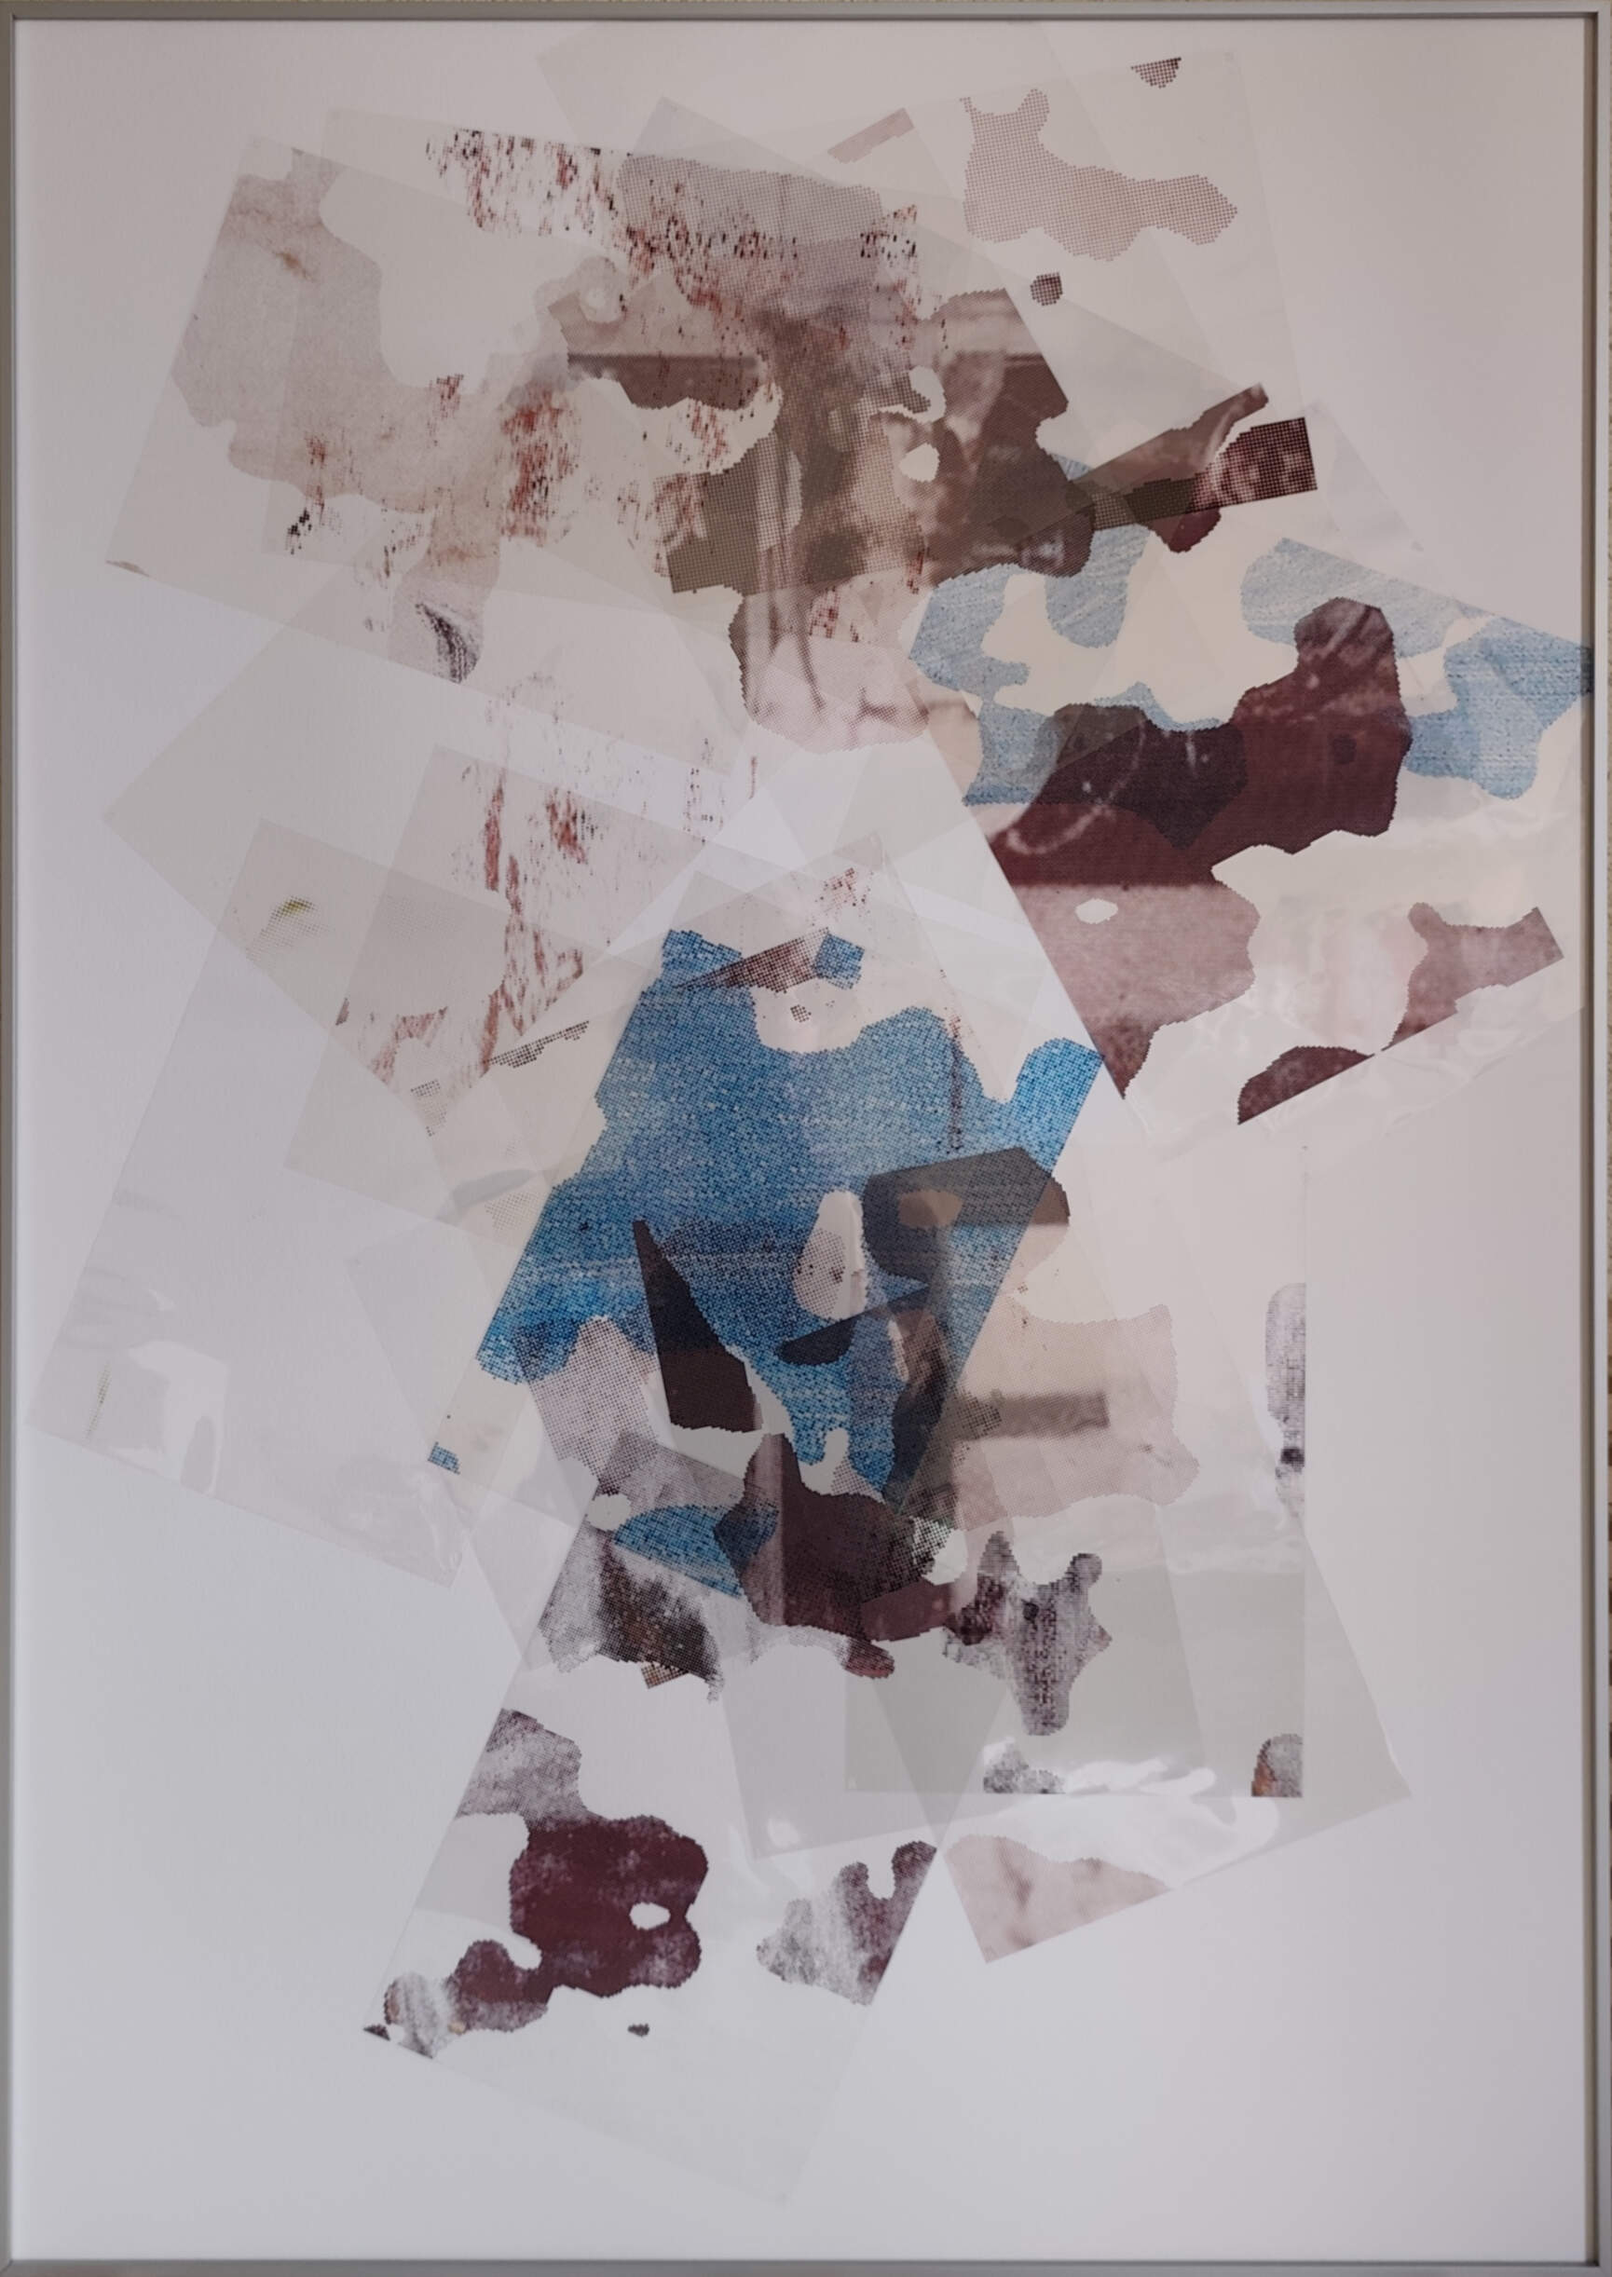
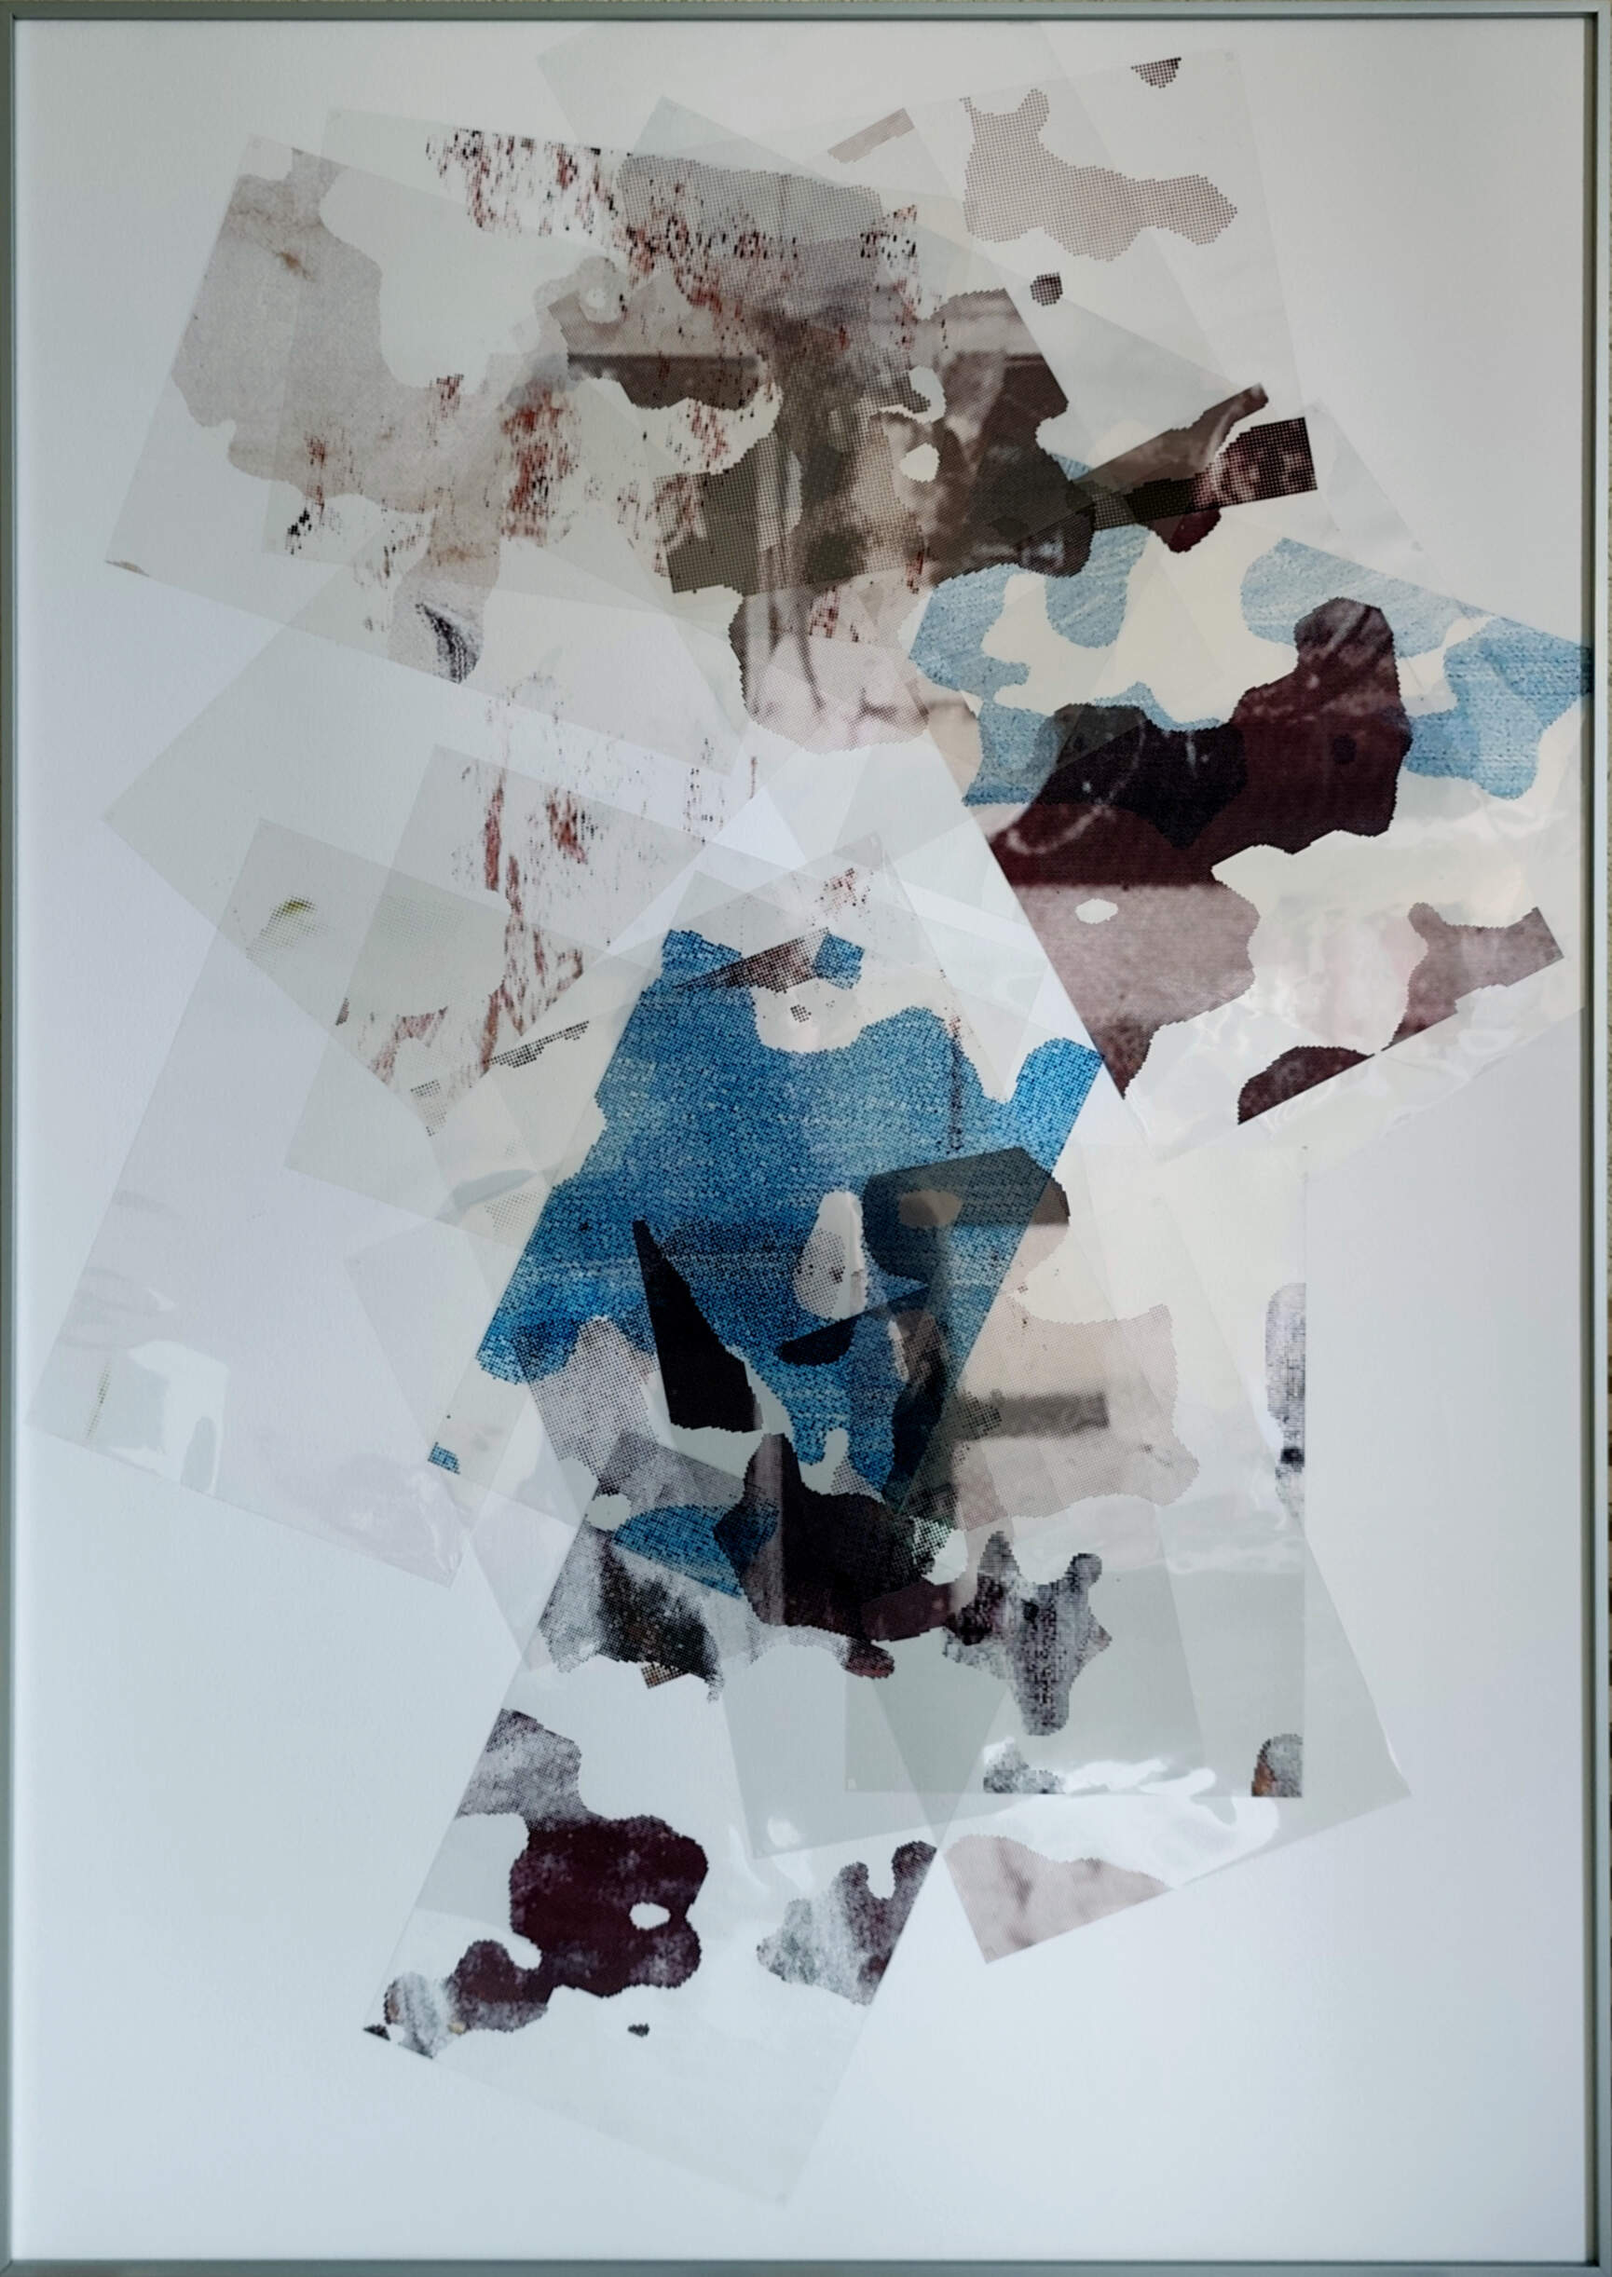
dunas

diff --git a/_works/dunes-micrographies.md b/_works/dunes-micrographies.md
@@ -6,26 +6,26 @@ date: 01/03/2026
 type: work
 media: Generative compositions. Acetates with digital printing mounted on Etruscan paper
 main_image: /images/AGF-Dunas-Micrografias-La_hora_azul-web.jpg 
-images: /images/AGF-Dunas-Micrografias-La_colonia-TRIPTICO-web.jpg, /images/AGF-Dunas-Micrografias-La_colonia-I-web.jpg, /images/AGF-Dunas-Micrografias-La_habitacion_azul-I-web.jpg, /images/AGF-Dunas-Micrografias-Terreno_Yermol-I-web.jpg, /images/AGF-Dunas-Micrografias-La_habitacion_azul_TRIPTICO--web.jpg, /images/AGF-Dunas-Micrografias-La_colonia-II-web.jpg, /images/AGF-Dunas-Micrografias-La_habitacion_azul-II-web.jpg, /images/AGF-Dunas-Micrografias-Terreno_Yermol-II-web.jpg, /images/AGF-Dunas-Micrografias-Terreno_Yermol-TRIPTICO-web.jpg, /images/AGF-Dunas-Micrografias-La_colonia-III-web.jpg, /images/AGF-Dunas-Micrografias-La_habitacion_azul-III-web.jpg, /images/AGF-Dunas-Micrografias-Terreno_Yermol-III-web.jpg
+images: /images/AGF-Dunas-Micrografias-La_colonia-TRIPTICO-blanco-web.jpg, /images/AGF-Dunas-Micrografias-La_colonia-I-web.jpg, /images/AGF-Dunas-Micrografias-La_habitacion_azul-I-web.jpg, /images/AGF-Dunas-Micrografias-Terreno_Yermol-I-web.jpg, /images/AGF-Dunas-Micrografias-La_habitacion_azul_TRIPTICO-blanco-web.jpg, /images/AGF-Dunas-Micrografias-La_colonia-II-web.jpg, /images/AGF-Dunas-Micrografias-La_habitacion_azul-II-web.jpg, /images/AGF-Dunas-Micrografias-Terreno_Yermol-II-web.jpg, /images/AGF-Dunas-Micrografias-Terreno_Yermol-TRIPTICO-blanco-web.jpg, /images/AGF-Dunas-Micrografias-La_colonia-III-web.jpg, /images/AGF-Dunas-Micrografias-La_habitacion_azul-III-web.jpg, /images/AGF-Dunas-Micrografias-Terreno_Yermol-III-web.jpg
 layout: default
 ---
 
 
 
 <div class="es">
-<p><em>Dunas / Micrografías</em> parte de la duna migrante de Råbjerg Mile, en el norte de Skagen, como figura para pensar las transformaciones de la imagen y la visualidad desde el siglo XIX hasta el presente. Formada tras la Pequeña Edad de Hielo y responsable de sepultar antiguos pueblos, la duna funciona hoy como un signo premonitorio leído desde el contexto del cambio climático. 
+<p><em>Dunas / Micrografías</em> es un trabajo que parte de la gran duna migrante, la Råbjerg Mile, en el norte de Dinamarca, como figura para pensar las transformaciones de la imagen y la visualidad debidas al cambio climático. Formada en el s. XVII a consecuencia de la deforestación y la Pequeña Edad de Hielo, este accidente geográfico que llegó a sepultar varios pueblos es el punto de partida de una serie de composiciones generativas materializadas como superposiciones de acetatos sobre papel.
 </p>
 <p>
-<em>Dunas / Micrografías</em> conecta este paisaje con la colonia de pintores de Skagen, que exploró la atmósfera y la luz como problema estético, y contrapone esa mirada histórica a nuestra experiencia contemporánea de las imágenes, atravesada por dispositivos digitales, algoritmos y sistemas de inteligencia artificial. 
+El proyecto conecta la duna con una colonia de pintores establecida a finales del s. XIX muy cerca de su ubicación. La colonia de Skagen estudió la luminosidad del lugar como parte de una práctica influida por el impresionismo y la pintura en plein air, pero apenas prestó atención a la duna en sí. Habitaban una atmósfera distinta a la nuestra: en su caso, un campo de exploración estética; en el nuestro, una entidad atravesada por la anticipación de un futuro incierto. Las composiciones recogen esta distancia desde el otro cambio radical de experiencia de la imagen contemporánea: la de los dispositivos digitales, algoritmos y sistemas de inteligencia artificial. 
 </p>
 <p>
-A partir de un sistema de generación de imágenes diseñado específicamente para la obra, las composiciones fragmentan y redistribuyen imágenes históricas en capas y partículas, como arena arrastrada por el viento. El resultado se materializa en una serie de acetatos impresos digitalmente que presentan la imagen contemporánea como materia en suspensión, aludiendo tanto a la inestabilidad atmosférica del Antropoceno como a las mutaciones actuales en la producción, circulación y percepción de las imágenes. 
+A partir de un sistema de generación de imágenes diseñado específicamente para la obra, las composiciones fragmentan y redistribuyen imágenes de Skagen en capas y partículas, como arena arrastrada por el viento. El resultado se materializa en una serie de acetatos intervenidos digitalmente que presentan la imagen como materia en suspensión, una materialización tanto de la inestabilidad atmosférica del presente como de las mutaciones actuales en la producción, circulación y percepción de las imágenes. 
 </p>
 <p>
 El proyecto se inscribe en una investigación más amplia sobre visualidad en el Antropoceno, desarrollada con el apoyo de la Fundación BBVA.
 </p>
 
-<h3>Sobre el proyecto</h3>
+<h3>Notas adicionales sobre el proyecto</h3>
 
 <p>
 	Este proyecto parte del hecho sorprendente de que la mayor duna migrante de Europa se encuentra en el norte de Dinamarca. Se formó en el siglo XVII, tras la pequeña edad de hielo, cuando los fuertes vientos de la región desplazaron grandes cantidades de arena que, en pocas décadas, sepultaron varios pueblos. Hoy, solo la torre de la iglesia más alta permanece visible como vestigio de ese proceso.
@@ -36,6 +36,7 @@ El proyecto se inscribe en una investigación más amplia sobre visualidad en el
 <p>
 	Vista desde el presente, marcado por el cambio climático, la gran duna migrante -Råbjerg Mile- adquiere un carácter casi premonitorio. Para la colonia de Skagen, sin embargo, no fue objeto de gran interés. Habitaban una atmósfera distinta a la nuestra: en su caso, un campo de exploración estética; en el nuestro, una entidad atravesada por la amenaza de eventos extremos y la anticipación de un futuro incierto.
 </p>
+<h3>La imagen digital</h3>
 <p>
 	<em>Dunas / Micrografías</em> se inscribe en una investigación más amplia sobre las condiciones de la visualidad en el Antropoceno, desarrollada con la ayuda de la Beca Leonardo de la Fundación BBVA, y que continúa trabajos previos centrados en las materialidades de la imagen en la época de su circulación digital.
 </p>
@@ -45,6 +46,7 @@ El proyecto se inscribe en una investigación más amplia sobre visualidad en el
 <p>
 	Si la colonia de Skagen aspiraba a comprender la atmósfera en términos de imagen, hoy son las imágenes las que parecen resignificar la idea misma de atmósfera: tanto por la forma en que nos envuelven y median nuestras relaciones como por su propia dinámica, continuamente fragmentadas, recombinadas y arrastradas por el vendaval acelerado de nuestro tiempo.
 </p>
+<h3>La duna y la atmósfera, el fondo y la forma</h3>
 <p>
 	La duna cercana a Skagen funciona entonces como un elemento de conexión entre estas dos épocas de la imagen: lo que las atmósferas-imagen de la segunda mitad del siglo XIX invisibilizan salta al primer plano en las imágenes-atmósfera del siglo XXI. 
 </p>
